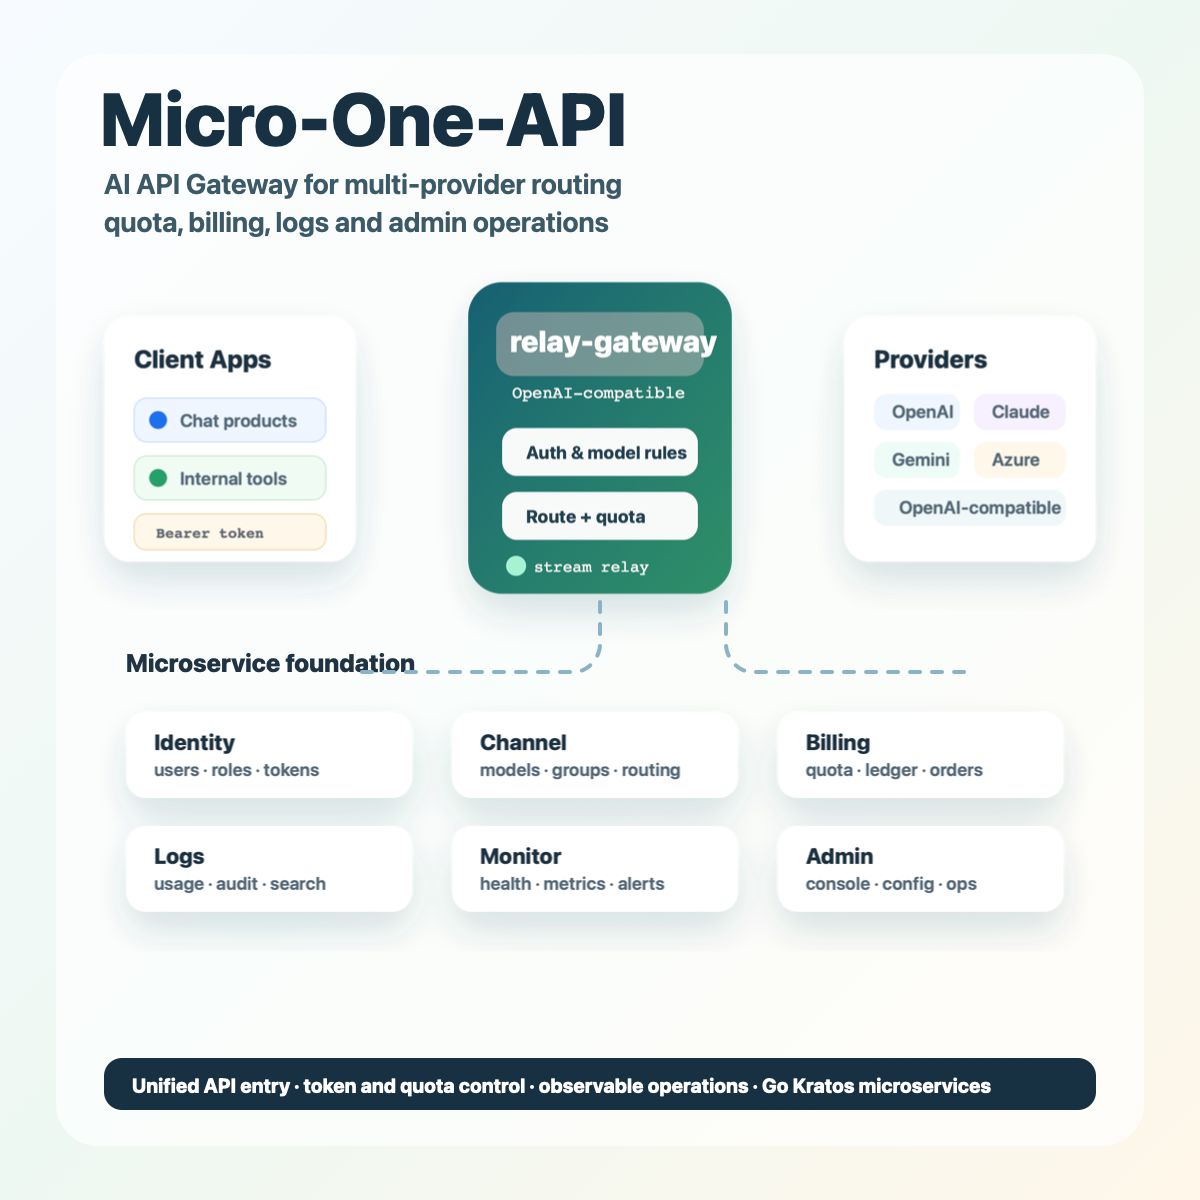
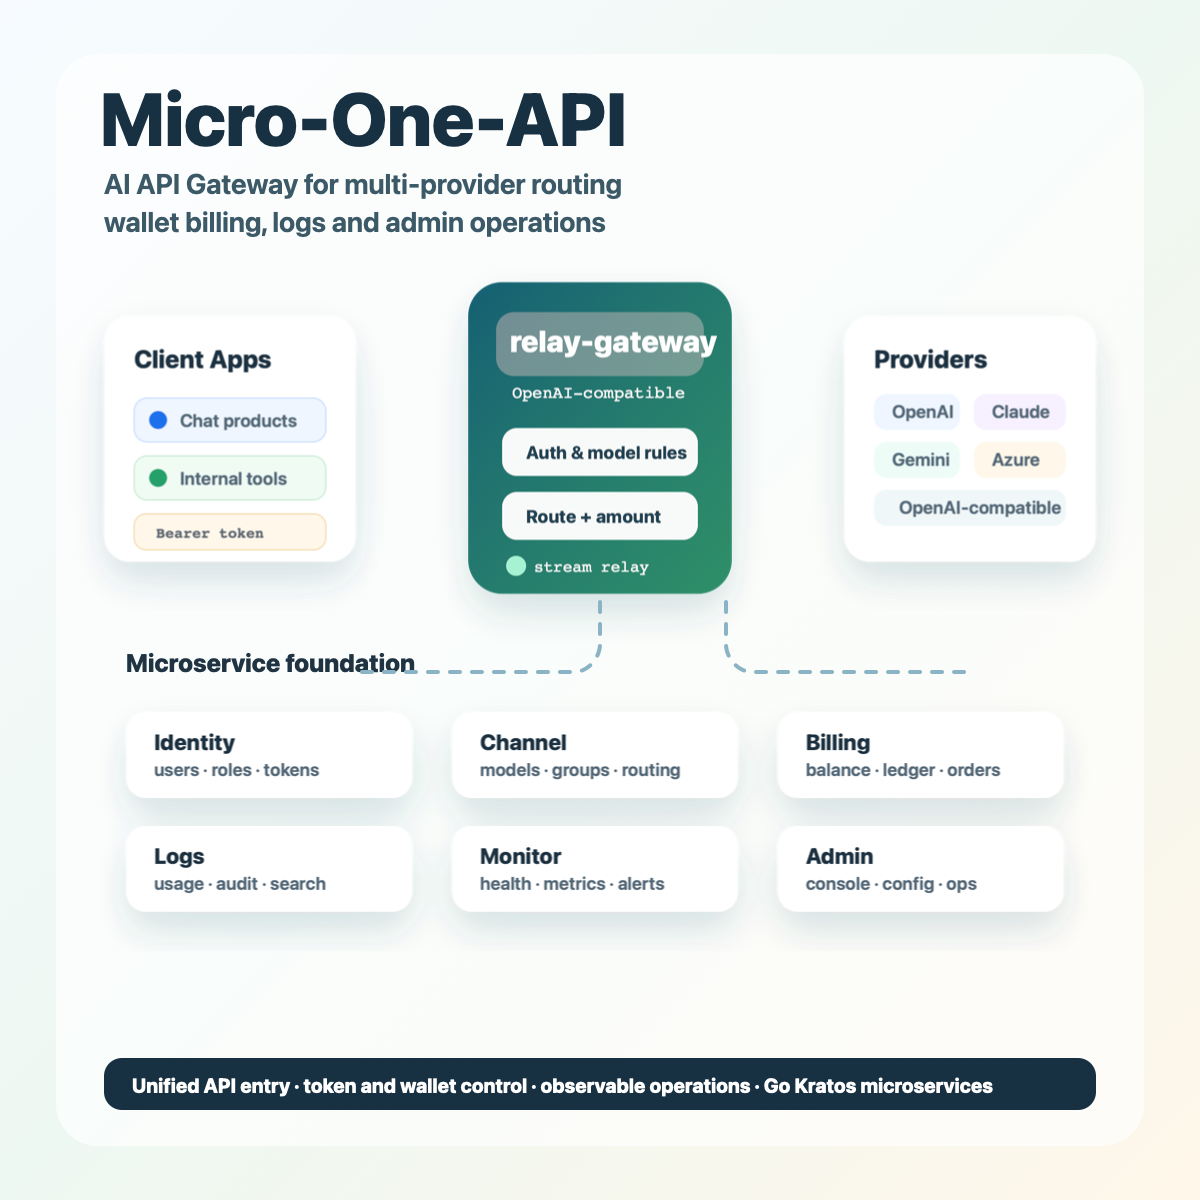
docs: clarify wallet amount terminology

diff --git a/web/src/pages/admin/OptionsPage.tsx b/web/src/pages/admin/OptionsPage.tsx
@@ -27,20 +27,20 @@ const FEATURED_OPTIONS = [
   },
   {
     key: 'AmountForNewUser',
-    label: '新用户默认额度',
-    description: '新用户注册时获得的初始额度。',
+    label: '新用户默认金额',
+    description: '新用户注册时获得的初始钱包金额。',
     type: 'amount',
   },
   {
     key: 'AmountForInviter',
-    label: '邀请人奖励额度',
-    description: '成功邀请一位新用户后,邀请人获得的奖励额度。',
+    label: '邀请人奖励金额',
+    description: '成功邀请一位新用户后,邀请人获得的奖励金额。',
     type: 'amount',
   },
   {
     key: 'AmountForInvitee',
-    label: '被邀请人奖励额度',
-    description: '被邀请的新用户获得的奖励额度。',
+    label: '被邀请人奖励金额',
+    description: '被邀请的新用户获得的奖励金额。',
     type: 'amount',
   },
 ] as const;
@@ -126,7 +126,7 @@ export function AdminOptionsPage() {
       <div>
         <h2 className="text-2xl font-semibold">系统选项</h2>
         <p className="mt-1 text-sm text-muted-foreground">
-          管理系统注册、额度发放和兼容 one-api 的设置项。
+          管理系统注册、钱包金额发放和兼容 one-api 的设置项。
         </p>
       </div>
 

diff --git a/web/src/pages/OrdersPage.tsx b/web/src/pages/OrdersPage.tsx
@@ -115,7 +115,7 @@ function numberValue(value: unknown): number {
   return Number.isFinite(parsed) ? parsed : 0;
 }
 
-function formatQuota(value: number) {
+function formatAmount(value: number) {
   return formatAmountUnits(value);
 }
 
@@ -172,7 +172,7 @@ function paymentOrderToRow(order: PaymentOrder): OrderRow {
   const tradeNo = getTradeNo(order);
   const issueStatus = order.asset_issue_status || order.assetIssueStatus || '-';
   const assetType = getAssetType(order);
-  const assetLabel = assetType === 'subscription' ? `订阅分组 #${getGroupID(order) || '-'}` : formatQuota(getAssetAmount(order));
+  const assetLabel = assetType === 'subscription' ? `订阅分组 #${getGroupID(order) || '-'}` : formatAmount(getAssetAmount(order));
   return {
     id: `payment-${order.id || tradeNo}`,
     type: 'payment',
@@ -191,8 +191,8 @@ function ledgerToRow(log: LedgerLog, index: number): OrderRow {
   return {
     id: `ledger-${log.id || log.reference_id || log.created_at}-${index}`,
     type: log.type,
-    amount: formatQuota(log.amount ?? 0),
-    balance: formatQuota(log.balance_after ?? 0),
+    amount: formatAmount(log.amount ?? 0),
+    balance: formatAmount(log.balance_after ?? 0),
     reference: log.reference_id || '-',
     remark: log.remark || '-',
     createdAt: log.created_at,
@@ -392,8 +392,8 @@ export function OrdersPage() {
               <DetailRow label="状态" value={STATUS_NAMES[selectedOrder.status || ''] || selectedOrder.status || '-'} />
               <DetailRow label="支付金额" value={formatMoney(getMoneyCents(selectedOrder), selectedOrder.currency)} />
               <DetailRow
-                label={getAssetType(selectedOrder) === 'subscription' ? '订阅权益' : '到账额度'}
-                value={getAssetType(selectedOrder) === 'subscription' ? `订阅分组 #${getGroupID(selectedOrder) || '-'}` : formatQuota(getAssetAmount(selectedOrder))}
+                label={getAssetType(selectedOrder) === 'subscription' ? '订阅权益' : '到账金额'}
+                value={getAssetType(selectedOrder) === 'subscription' ? `订阅分组 #${getGroupID(selectedOrder) || '-'}` : formatAmount(getAssetAmount(selectedOrder))}
               />
               <DetailRow label="资产状态" value={selectedOrder.asset_issue_status || selectedOrder.assetIssueStatus || '-'} />
               <DetailRow label="创建时间" value={formatDate(getCreatedAt(selectedOrder))} />

diff --git a/web/src/pages/admin/OverviewPage.tsx b/web/src/pages/admin/OverviewPage.tsx
@@ -461,7 +461,7 @@ export function AdminOverviewPage() {
         <StatCard
           title="调用请求"
           value={formatInteger(totals.request_count)}
-          detail={`${formatQuota(totals.quota_used, quotaPerUnit)} 配额消耗`}
+          detail={`${formatQuota(totals.quota_used, quotaPerUnit)} 金额消耗`}
           icon={Activity}
         />
         <StatCard
@@ -476,7 +476,7 @@ export function AdminOverviewPage() {
         <CostCard
           title="用户侧收入"
           value={formatQuota(costAnalysis.revenue_quota ?? totals.quota_used, quotaPerUnit)}
-          detail="consume 账本计费配额"
+          detail="consume 账本计费金额"
           icon={TrendingUp}
           tone="green"
         />
@@ -528,7 +528,7 @@ export function AdminOverviewPage() {
           <CardContent className="flex items-center gap-4 p-5">
             <LineChart className="size-10 text-violet-600" />
             <div>
-              <div className="text-sm font-semibold text-slate-500">配额消耗</div>
+              <div className="text-sm font-semibold text-slate-500">金额消耗</div>
               <div className="text-2xl font-black">{formatQuota(totals.quota_used, quotaPerUnit)}</div>
               <div className="text-xs font-medium text-slate-400">{Object.keys(completionRatio).length} 个兼容倍率项</div>
             </div>

diff --git a/web/src/pages/admin/ReconciliationPage.tsx b/web/src/pages/admin/ReconciliationPage.tsx
@@ -72,7 +72,7 @@ function formatQuota(value: number) {
 function discrepancyTypeLabel(type?: string) {
   if (type === 'channel_usage') return '渠道用量';
   if (type === 'ledger_log_consume') return '双写一致性';
-  return '账户额度';
+  return '账户余额';
 }
 
 function discrepancyObject(item: ReconciliationDiscrepancy) {
@@ -102,7 +102,7 @@ function discrepancyDiff(item: ReconciliationDiscrepancy) {
 function discrepancyDetail(item: ReconciliationDiscrepancy) {
   if (item.type === 'channel_usage') return `成本 ${formatQuota(item.upstream_cost ?? 0)}`;
   if (item.type === 'ledger_log_consume') return 'consume 记录数 / quota';
-  return `账目净额 ${formatQuota(item.ledger_net_amount ?? 0)}，冻结 ${formatQuota(item.frozen_quota ?? 0)}`;
+  return `账目净额 ${formatQuota(item.ledger_net_amount ?? 0)}，冻结金额 ${formatQuota(item.frozen_quota ?? 0)}`;
 }
 
 export function AdminReconciliationPage() {
@@ -218,7 +218,7 @@ export function AdminReconciliationPage() {
           <DialogHeader>
             <DialogTitle>对账差异详情</DialogTitle>
             <DialogDescription>
-              账户额度、渠道用量计数、billing ledger 与 consume log 双写不一致的记录。
+              账户余额、渠道用量计数、billing ledger 与 consume log 双写不一致的记录。
             </DialogDescription>
           </DialogHeader>
 

diff --git a/web/src/pages/DashboardPage.tsx b/web/src/pages/DashboardPage.tsx
@@ -242,8 +242,8 @@ export function DashboardPage() {
           <MetricCardsSkeleton />
         ) : (
           <>
-            <MetricCard title="剩余额度" value={formatMoney(balance)} subtitle="可用余额" tone="orange" icon={WalletCards} />
-            <MetricCard title="已用额度" value={`$${formatAmount(usedAmount, 4)}`} subtitle="累计消耗" tone="purple" icon={Sparkles} />
+            <MetricCard title="钱包余额" value={formatMoney(balance)} subtitle="可用余额" tone="orange" icon={WalletCards} />
+            <MetricCard title="已用金额" value={`$${formatAmount(usedAmount, 4)}`} subtitle="累计消耗" tone="purple" icon={Sparkles} />
             <MetricCard title="调用次数" value={requestCount.toLocaleString()} subtitle={`今日 ${todayRequests.toLocaleString()}`} tone="green" icon={BarChart3} />
             <MetricCard title="API 密钥" value={tokenCount.toLocaleString()} subtitle={`可用 ${activeTokenCount.toLocaleString()}`} tone="blue" icon={KeyRound} />
             <MetricCard title="今日消耗" value={`$${formatAmount(todayAmount, 4)}`} subtitle={`今日 Token ${compactNumber(todayPromptTokens + todayCompletionTokens)} / 缓存 ${compactNumber(todayCacheReadTokens)}`} tone="amber" icon={Box} />

diff --git a/web/src/pages/ProfilePage.tsx b/web/src/pages/ProfilePage.tsx
@@ -328,13 +328,13 @@ export function ProfilePage() {
             </CardHeader>
             <CardContent className="p-6 space-y-4">
               <div>
-                <div className="text-xs font-bold text-slate-400">剩余额度</div>
+                <div className="text-xs font-bold text-slate-400">钱包余额</div>
                 <div className="text-2xl font-black text-emerald-600 dark:text-emerald-400">
                   {formatAmount(dashboard?.balance ?? 0)}
                 </div>
               </div>
               <div>
-                <div className="text-xs font-bold text-slate-400">已用额度</div>
+                <div className="text-xs font-bold text-slate-400">已用金额</div>
                 <div className="text-lg font-black text-slate-700 dark:text-slate-200">
                   {formatAmount(dashboard?.used_amount ?? 0)}
                 </div>

diff --git a/web/src/pages/admin/PaymentOrdersPage.tsx b/web/src/pages/admin/PaymentOrdersPage.tsx
@@ -69,7 +69,7 @@ function numberValue(value: unknown): number {
   return Number.isFinite(parsed) ? parsed : 0;
 }
 
-function formatQuota(value: unknown) {
+function formatAmount(value: unknown) {
   return formatAmountUnits(numberValue(value));
 }
 
@@ -115,7 +115,7 @@ function formatAsset(order: PaymentOrder) {
   if (getAssetType(order) === 'subscription') {
     return `订阅分组 #${getGroupID(order) || '-'}`;
   }
-  return formatQuota(getAssetAmount(order));
+  return formatAmount(getAssetAmount(order));
 }
 
 function getMoneyCents(order: PaymentOrder) {

diff --git a/web/src/pages/RedeemPage.tsx b/web/src/pages/RedeemPage.tsx
@@ -63,7 +63,7 @@ export function RedeemPage() {
             </div>
             <h2 className="text-3xl font-black tracking-normal text-slate-950 dark:text-white">兑换码充值</h2>
             <p className="mt-2 max-w-xl text-sm font-medium text-slate-500 dark:text-slate-400">
-              输入管理员发放的兑换码，成功后额度会立即入账。
+              输入管理员发放的兑换码，成功后金额会立即入账。
             </p>
 
             <div className="mt-8 space-y-3">

diff --git a/web/src/pages/admin/CostAnalysisPage.tsx b/web/src/pages/admin/CostAnalysisPage.tsx
@@ -402,7 +402,7 @@ export function CostAnalysisPage() {
                 <strong>成本分析说明：</strong>数据基于实际使用量和配置的渠道价格计算
               </p>
               <ul className="ml-4 list-disc space-y-1">
-                <li><strong>收入：</strong>用户消耗的配额价值</li>
+                <li><strong>收入：</strong>用户消耗的金额</li>
                 <li><strong>上游成本：</strong>调用外部 API 的实际支出</li>
                 <li><strong>毛利润：</strong>收入减去上游成本（未包含运营成本）</li>
                 <li><strong>毛利率：</strong>毛利润占收入的比例</li>

diff --git a/docs/community-promotion-blog.md b/docs/community-promotion-blog.md
@@ -1,4 +1,4 @@
-# Micro-One-API：一个面向多模型、多渠道和额度管理的 AI API 网关
+# Micro-One-API：一个面向多模型、多渠道和钱包账务管理的 AI API 网关
 
 ![Micro-One-API community cover](./assets/micro-one-api-community-cover.svg)
 
@@ -6,18 +6,18 @@
 
 ## 摘要
 
-`micro-one-api` 是一个基于 Go Kratos 的多服务 AI API 网关与管理系统。它参考了 one-api 的多渠道 OpenAI API 分发思路，也借鉴了 sub2api 在订阅额度、账号池、限流和用量管理上的场景经验，将用户鉴权、渠道管理、额度账务、日志监控和管理后台拆分成清晰的微服务。
+`micro-one-api` 是一个基于 Go Kratos 的多服务 AI API 网关与管理系统。它参考了 one-api 的多渠道 OpenAI API 分发思路，也借鉴了 sub2api 在订阅额度窗口、账号池、限流和用量管理上的场景经验，将用户鉴权、渠道管理、钱包账务、日志监控和管理后台拆分成清晰的微服务。
 
-如果你正在维护多个上游模型渠道，希望统一 API 入口、统一用户 Token、统一额度和用量记录，并且希望系统后续具备更强的可维护性与扩展性，这个项目可以作为一个参考实现。
+如果你正在维护多个上游模型渠道，希望统一 API 入口、统一用户 Token、统一钱包余额和用量记录，并且希望系统后续具备更强的可维护性与扩展性，这个项目可以作为一个参考实现。
 
 ## 为什么做这个项目
 
 AI 应用落地以后，很多团队会遇到几个相似的问题：
 
 - 上游模型越来越多，OpenAI-compatible、Anthropic、Gemini、Azure、OpenRouter、DeepSeek、Ollama 等渠道需要统一接入。
-- 不同业务、用户或团队需要不同的 Token、额度、模型权限和访问策略。
+- 不同业务、用户或团队需要不同的 Token、钱包余额、模型权限和访问策略。
 - 单体网关在功能越来越多以后，渠道、账务、用户、后台、日志和监控逻辑容易相互耦合。
-- API 网关不仅要能转发请求，还要能做鉴权、选路、限流、用量记录、额度预扣和异常处理。
+- API 网关不仅要能转发请求，还要能做鉴权、选路、限流、用量记录、金额预扣和异常处理。
 - 管理员需要一个后台来维护渠道、用户、令牌、订单、兑换码和运行状态。
 
 `micro-one-api` 的目标不是简单再造一个 API 转发器，而是把这些能力拆成更清晰的服务边界，让网关、用户、渠道、账务和运营后台可以独立演进。
@@ -27,7 +27,7 @@ AI 应用落地以后，很多团队会遇到几个相似的问题：
 `micro-one-api` 可以理解为一个面向 AI API 分发场景的微服务化基础设施：
 
 - 对开发者：提供 OpenAI 兼容接口，降低业务应用切换模型和渠道的成本。
-- 对管理员：提供渠道、用户、Token、额度、订单、兑换码和用量的管理入口。
+- 对管理员：提供渠道、用户、Token、钱包余额、订单、兑换码和用量的管理入口。
 - 对运维人员：提供 Docker Compose、Kubernetes、健康检查、Prometheus metrics 和日志服务。
 - 对二次开发者：提供 Go Kratos、gRPC、HTTP、proto、migration 和前后端分离的工程结构。
 
@@ -63,17 +63,17 @@ AI 应用落地以后，很多团队会遇到几个相似的问题：
 
 ### 3. 用户、Token 与权限管理
 
-`identity-service` 负责用户认证和 Token 校验，支持用户状态、Token 状态、过期时间、额度检查、模型权限和角色控制。
+`identity-service` 负责用户认证和 Token 校验，支持用户状态、Token 状态、过期时间、余额检查、模型权限和角色控制。
 
 这让系统不仅能作为个人网关使用，也能支持团队内部按用户、按 Token、按模型进行访问控制。
 
-### 4. 配额与账务
+### 4. 钱包与账务
 
-`billing-service` 负责额度、账务流水、兑换码、支付订单和扣费结算等能力。网关在转发请求前可以进行额度预扣，并根据请求结果释放或结算额度。
+`billing-service` 负责钱包余额、账务流水、兑换码、支付订单和扣费结算等能力。网关在转发请求前可以进行金额预扣，并根据请求结果释放或结算金额。
 
 这类设计适合以下场景：
 
-- 团队内部额度分配
+- 团队内部余额分配
 - API Token 消费统计
 - 按用户或业务线核算成本
 - 兑换码充值
@@ -107,17 +107,17 @@ AI 应用落地以后，很多团队会遇到几个相似的问题：
 
 | 服务 | 说明 |
 |------|------|
-| `relay-gateway` | OpenAI 兼容 API 网关，负责鉴权、选路、额度预扣和上游转发 |
+| `relay-gateway` | OpenAI 兼容 API 网关，负责鉴权、选路、金额预扣和上游转发 |
 | `admin-api` | 管理后台 BFF，并托管或代理管理前端 |
 | `identity-service` | 用户、角色、登录鉴权和 Token 校验 |
 | `channel-service` | 渠道、模型、分组、优先级和可用渠道选择 |
-| `billing-service` | 额度、账务流水、兑换码、支付订单和扣费结算 |
+| `billing-service` | 钱包余额、账务流水、兑换码、支付订单和扣费结算 |
 | `config-service` | 动态配置管理 |
 | `log-service` | 业务日志写入、查询和删除代理 |
 | `monitor-worker` | 监控任务与告警触发 |
 | `notify-worker` | 通知发送 |
 
-这种拆分的好处是边界比较明确：网关只关心请求链路，用户服务处理身份，渠道服务处理路由，账务服务处理额度，后台服务面向运营入口。后续如果要替换某个模块，也不会影响整个系统。
+这种拆分的好处是边界比较明确：网关只关心请求链路，用户服务处理身份，渠道服务处理路由，账务服务处理钱包余额，后台服务面向运营入口。后续如果要替换某个模块，也不会影响整个系统。
 
 ## 快速体验
 
@@ -161,9 +161,9 @@ make test
 这个项目比较适合：
 
 - 想统一管理多个 AI 模型供应商的开发者或团队。
-- 想研究 AI API 网关、额度系统和渠道调度的工程实现者。
+- 想研究 AI API 网关、钱包账务系统和渠道调度的工程实现者。
 - 想把 one-api 类系统拆成微服务架构的人。
-- 需要内部 Token、额度、用量统计和管理后台的团队。
+- 需要内部 Token、钱包余额、用量统计和管理后台的团队。
 - 正在搭建 AI 中台、模型网关或内部开发者平台的团队。
 
 如果你只需要一个极简个人代理，完整微服务架构可能会显得偏重；如果你关注长期运营、多人管理、账务和扩展性，它会更有参考价值。
@@ -196,6 +196,6 @@ make test
 
 ## 结语
 
-AI 应用进入真实业务以后，问题往往不只是“怎么调用模型”，而是“怎么稳定、可控、可审计地管理模型调用”。`micro-one-api` 尝试把 API 网关、渠道路由、用户鉴权、额度账务和管理后台放到一套清晰的微服务架构里，让团队可以在统一入口之上继续扩展自己的 AI 基础设施。
+AI 应用进入真实业务以后，问题往往不只是“怎么调用模型”，而是“怎么稳定、可控、可审计地管理模型调用”。`micro-one-api` 尝试把 API 网关、渠道路由、用户鉴权、钱包账务和管理后台放到一套清晰的微服务架构里，让团队可以在统一入口之上继续扩展自己的 AI 基础设施。
 
 如果你对多模型网关、AI API 管理平台或 Go Kratos 微服务实践感兴趣，欢迎关注、试用和参与改进。

diff --git a/README.md b/README.md
@@ -1,8 +1,8 @@
 # micro-one-api
 
-`micro-one-api` 是一个基于 Go Kratos 的多服务 AI API 网关与管理系统。项目参考了 [one-api](https://github.com/songquanpeng/one-api) 的多渠道 OpenAI API 分发思路，也参考了 [sub2api](https://github.com/Wei-Shaw/sub2api) 对订阅额度、账号池、限流和用量管理的设计方向，并将核心能力拆分为更清晰的微服务边界。
+`micro-one-api` 是一个基于 Go Kratos 的多服务 AI API 网关与管理系统。项目参考了 [one-api](https://github.com/songquanpeng/one-api) 的多渠道 OpenAI API 分发思路，也参考了 [sub2api](https://github.com/Wei-Shaw/sub2api) 对订阅额度窗口、账号池、限流和用量管理的设计方向，并将核心能力拆分为更清晰的微服务边界。
 
-本项目面向需要统一管理多个上游模型供应商、内部额度、访问令牌、账务和运营后台的场景。它不是上游服务的替代品，也不提供任何第三方模型账号、订阅或 API Key。
+本项目面向需要统一管理多个上游模型供应商、钱包余额、访问令牌、账务和运营后台的场景。它不是上游服务的替代品，也不提供任何第三方模型账号、订阅或 API Key。
 
 > 📣 **最新发布**:[v0.2.7 发布公告](./docs/release-v0.2.7.md)(对账与渠道健康 Prometheus 指标) · [GitHub Release](https://github.com/mengbin92/micro-one-api/releases/tag/v0.2.7)
 
@@ -11,11 +11,11 @@
 - OpenAI 兼容 API 网关：支持 `/v1/chat/completions`、`/v1/models`、`/v1/responses` 以及 embeddings、audio、image、moderations 等 raw relay 路由。
 - 多渠道模型分发：支持渠道优先级、同优先级负载均衡、禁用渠道过滤、模型白名单和模型映射。
 - 多供应商适配：支持 OpenAI-compatible 渠道，并包含 Anthropic、Gemini、Azure、VoyageAI 等 provider 适配器；DeepSeek、Moonshot、Groq、Tongyi、OpenRouter、SiliconFlow、Ollama、Doubao 等按 OpenAI-compatible 方式转发。
-- 用户与令牌管理：支持用户鉴权、令牌状态、过期时间、额度检查、模型权限和用户角色控制。
-- 配额与账务：提供额度预扣、释放、结算、ledger、兑换码、支付订单和用量记录等能力。
+- 用户与令牌管理：支持用户鉴权、令牌状态、过期时间、余额检查、模型权限和用户角色控制。
+- 钱包与账务：提供金额预扣、释放、结算、ledger、兑换码、支付订单和用量记录等能力。
 - 成本与利润分析：`billing_ledgers` 记录上游成本，账本聚合支持收入/成本/毛利维度，可按模型、渠道、用户、Token、时间下钻。
 - 多维用量聚合：用量统计改为 SQL `GROUP BY` 聚合（按用户/渠道/模型/Token/分组/小时|日），告别 admin 抽样估算。
-- 对账与告警：`RunReconciliation` 覆盖账户额度、渠道用量、ledger/log 双写一致性；差异通过 `notify-worker` 投递通知（可配置收件人）。
+- 对账与告警：`RunReconciliation` 覆盖账户余额、渠道用量、ledger/log 双写一致性；差异通过 `notify-worker` 投递通知（可配置收件人）。
 - 成本健康 dashboard：管理后台展示成本/毛利/渠道余额健康指标；用量统计与账本支持缓存 token（`cache_read_tokens`）与命中率展示。
 - 管理后台：提供 React/Vite 前端和 `admin-api` BFF，用于管理用户、令牌、渠道、订单、兑换码、用量和系统配置。
 - 监控与日志：提供健康检查、Prometheus metrics、业务日志聚合、监控 worker 和通知 worker；对账任务与渠道健康探测暴露运行次数、耗时和失败原因指标。
@@ -27,11 +27,11 @@
 
 | 服务 | 职责 |
 |------|------|
-| `relay-gateway` | OpenAI 兼容 HTTP 网关，负责鉴权、选路、额度预扣、上游转发和响应透传 |
+| `relay-gateway` | OpenAI 兼容 HTTP 网关，负责鉴权、选路、金额预扣、上游转发和响应透传 |
 | `admin-api` | 管理端 BFF，并托管或代理管理前端静态资源 |
 | `identity-service` | 用户、角色、登录鉴权、Token 校验与权限判断 |
 | `channel-service` | 渠道、模型、分组、优先级和可用渠道选择 |
-| `billing-service` | 额度、账务流水、兑换码、支付订单和扣费结算 |
+| `billing-service` | 钱包余额、账务流水、兑换码、支付订单和扣费结算 |
 | `config-service` | 动态配置管理 |
 | `log-service` | 业务日志写入、查询和删除代理 |
 | `monitor-worker` | 监控任务与告警触发 |
@@ -220,7 +220,7 @@ make test-e2e
 
 ## 免责声明
 
-本项目仅作为 AI API 网关、渠道调度、额度管理和微服务架构实践工具提供。使用者应自行确保部署、配置、账号来源、API Key 来源、调用内容、支付能力和数据处理行为符合适用法律法规及第三方服务条款。
+本项目仅作为 AI API 网关、渠道调度、钱包账务管理和微服务架构实践工具提供。使用者应自行确保部署、配置、账号来源、API Key 来源、调用内容、支付能力和数据处理行为符合适用法律法规及第三方服务条款。
 
 项目维护者不提供任何第三方模型服务、订阅账号、API Key 或绕过访问限制的能力，也不对使用者因滥用、违规接入、账号封禁、额度损失、数据泄露、业务中断或其他后果承担责任。
 
@@ -229,7 +229,7 @@ make test-e2e
 ## 致谢
 
 - [one-api](https://github.com/songquanpeng/one-api)：提供了多渠道 OpenAI API 管理与分发系统的设计参考。
-- [sub2api](https://github.com/Wei-Shaw/sub2api)：提供了订阅转 API、账号池、额度分发和限流管理等场景参考。
+- [sub2api](https://github.com/Wei-Shaw/sub2api)：提供了订阅转 API、账号池、订阅额度窗口和限流管理等场景参考。
 - [go-kratos/kratos](https://github.com/go-kratos/kratos)：提供了微服务框架与工程实践基础。
 
 ## 许可证

diff --git a/docs/quota-removal-follow-up.md b/docs/quota-removal-follow-up.md
@@ -40,12 +40,15 @@ Follow-up items:
    terminology for wallet flows, such as invitation bonus env vars and
    `quota_per_unit` pricing option names. New primary names use amount
    terminology; old quota names are read only as compatibility fallbacks.
-4. [ ] Decide whether relay/OpenAI-compatible quota endpoints should stay as a
-   separate compatibility concept. Current relay `PAYMENT_QUOTA_PER_UNIT` and
-   raw quota endpoints were not changed because they are not wallet display
+4. [x] Keep relay/OpenAI-compatible quota endpoints as a separate compatibility
+   concept. Current relay `PAYMENT_QUOTA_PER_UNIT`, raw quota endpoints,
+   channel `used_quota`, log/reconciliation aggregate quota fields, and
+   subscription quota windows stay unchanged because they are protocol,
+   upstream-window, or technical accounting surfaces rather than wallet display
    paths.
 5. [x] Rename frontend helper modules/types from quota-oriented names after the API
    fields are renamed, especially `web/src/lib/quota.ts` and page-local
    `quota` properties that now hold amount units.
-6. [ ] Update product/admin documentation and screenshots after the API/schema naming
-   cleanup, so docs no longer explain user balances in quota terms.
+6. [x] Update product/admin documentation and community images after the
+   API/schema naming cleanup, so docs no longer explain user balances in quota
+   terms.